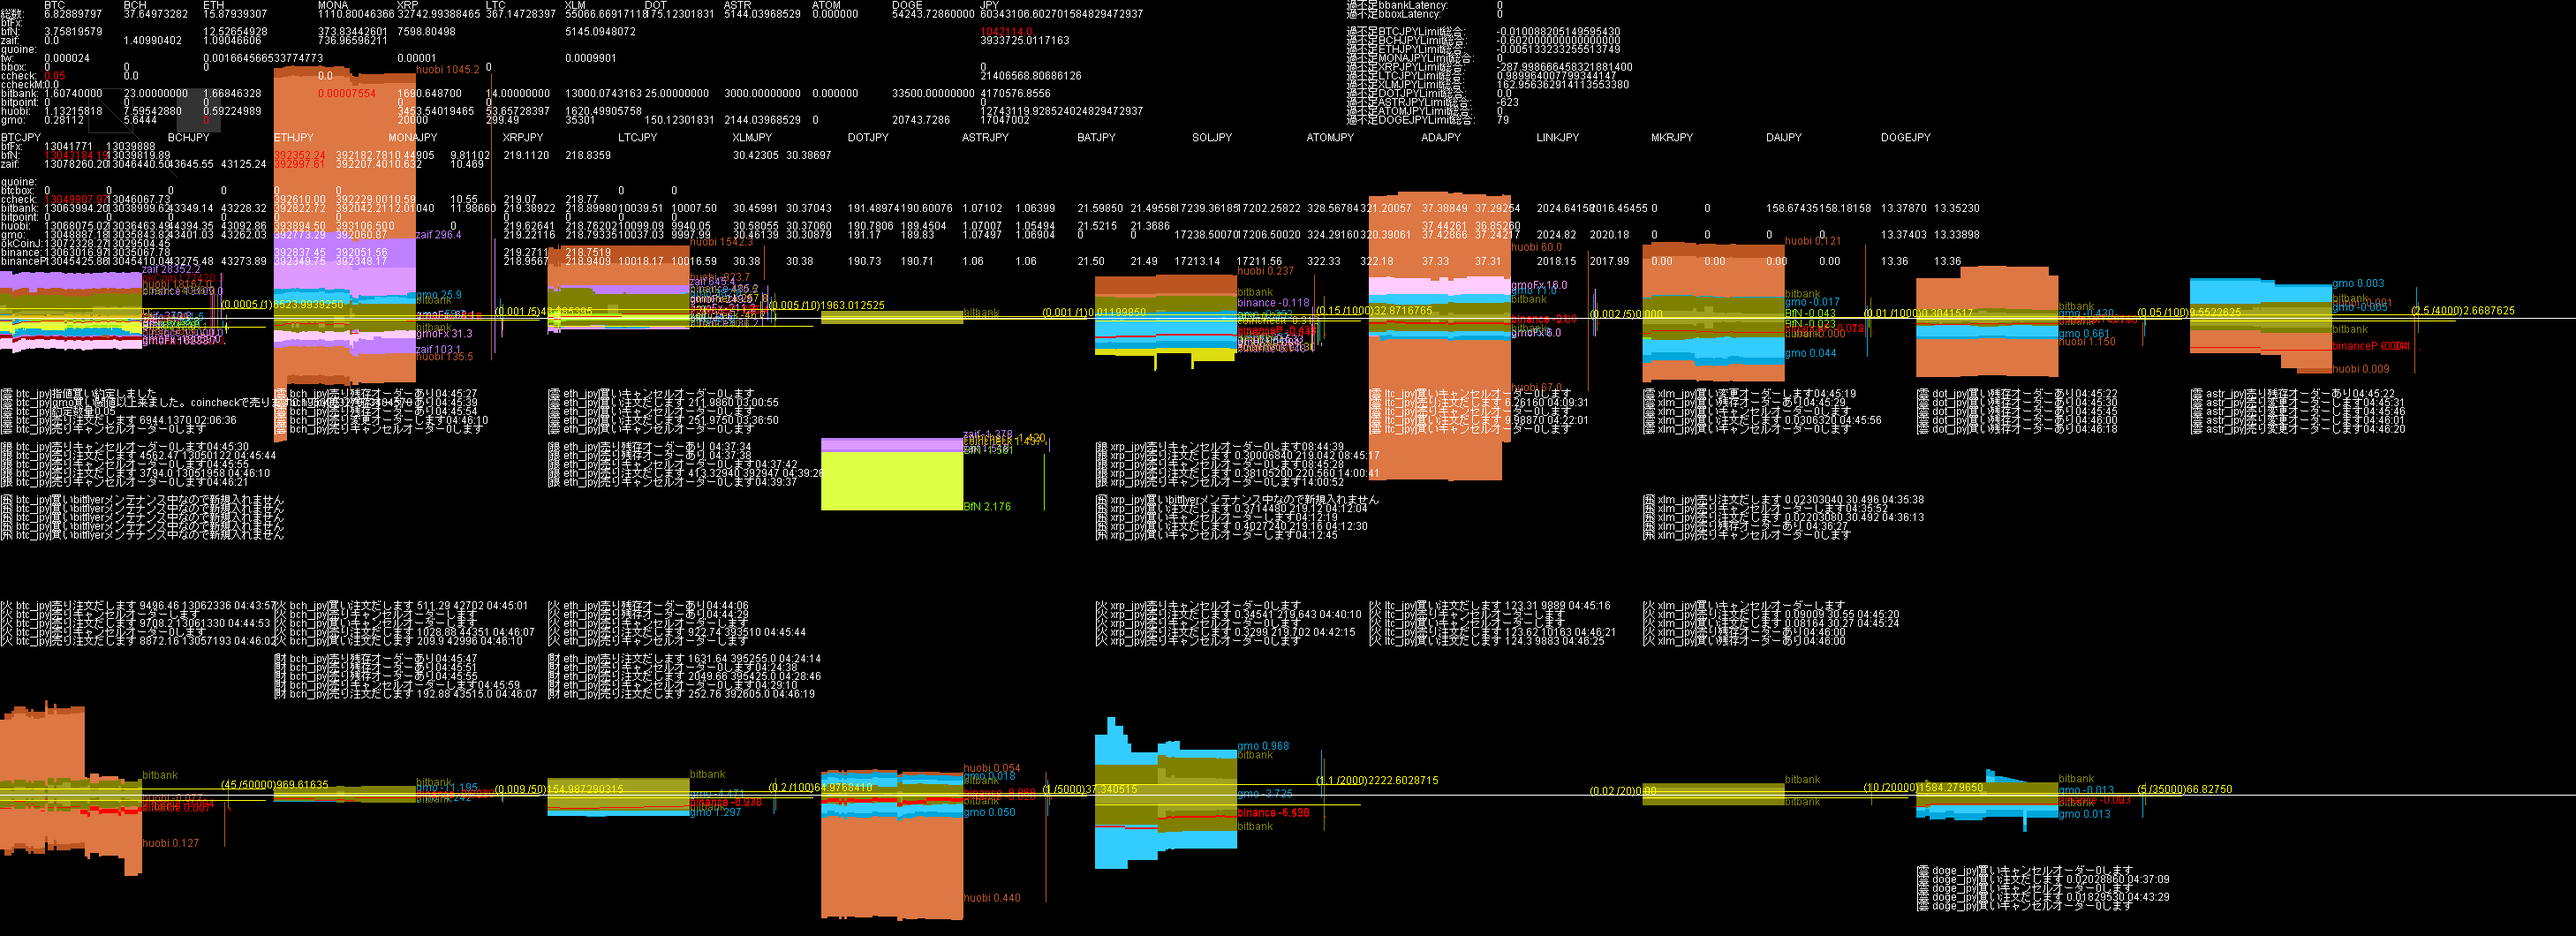
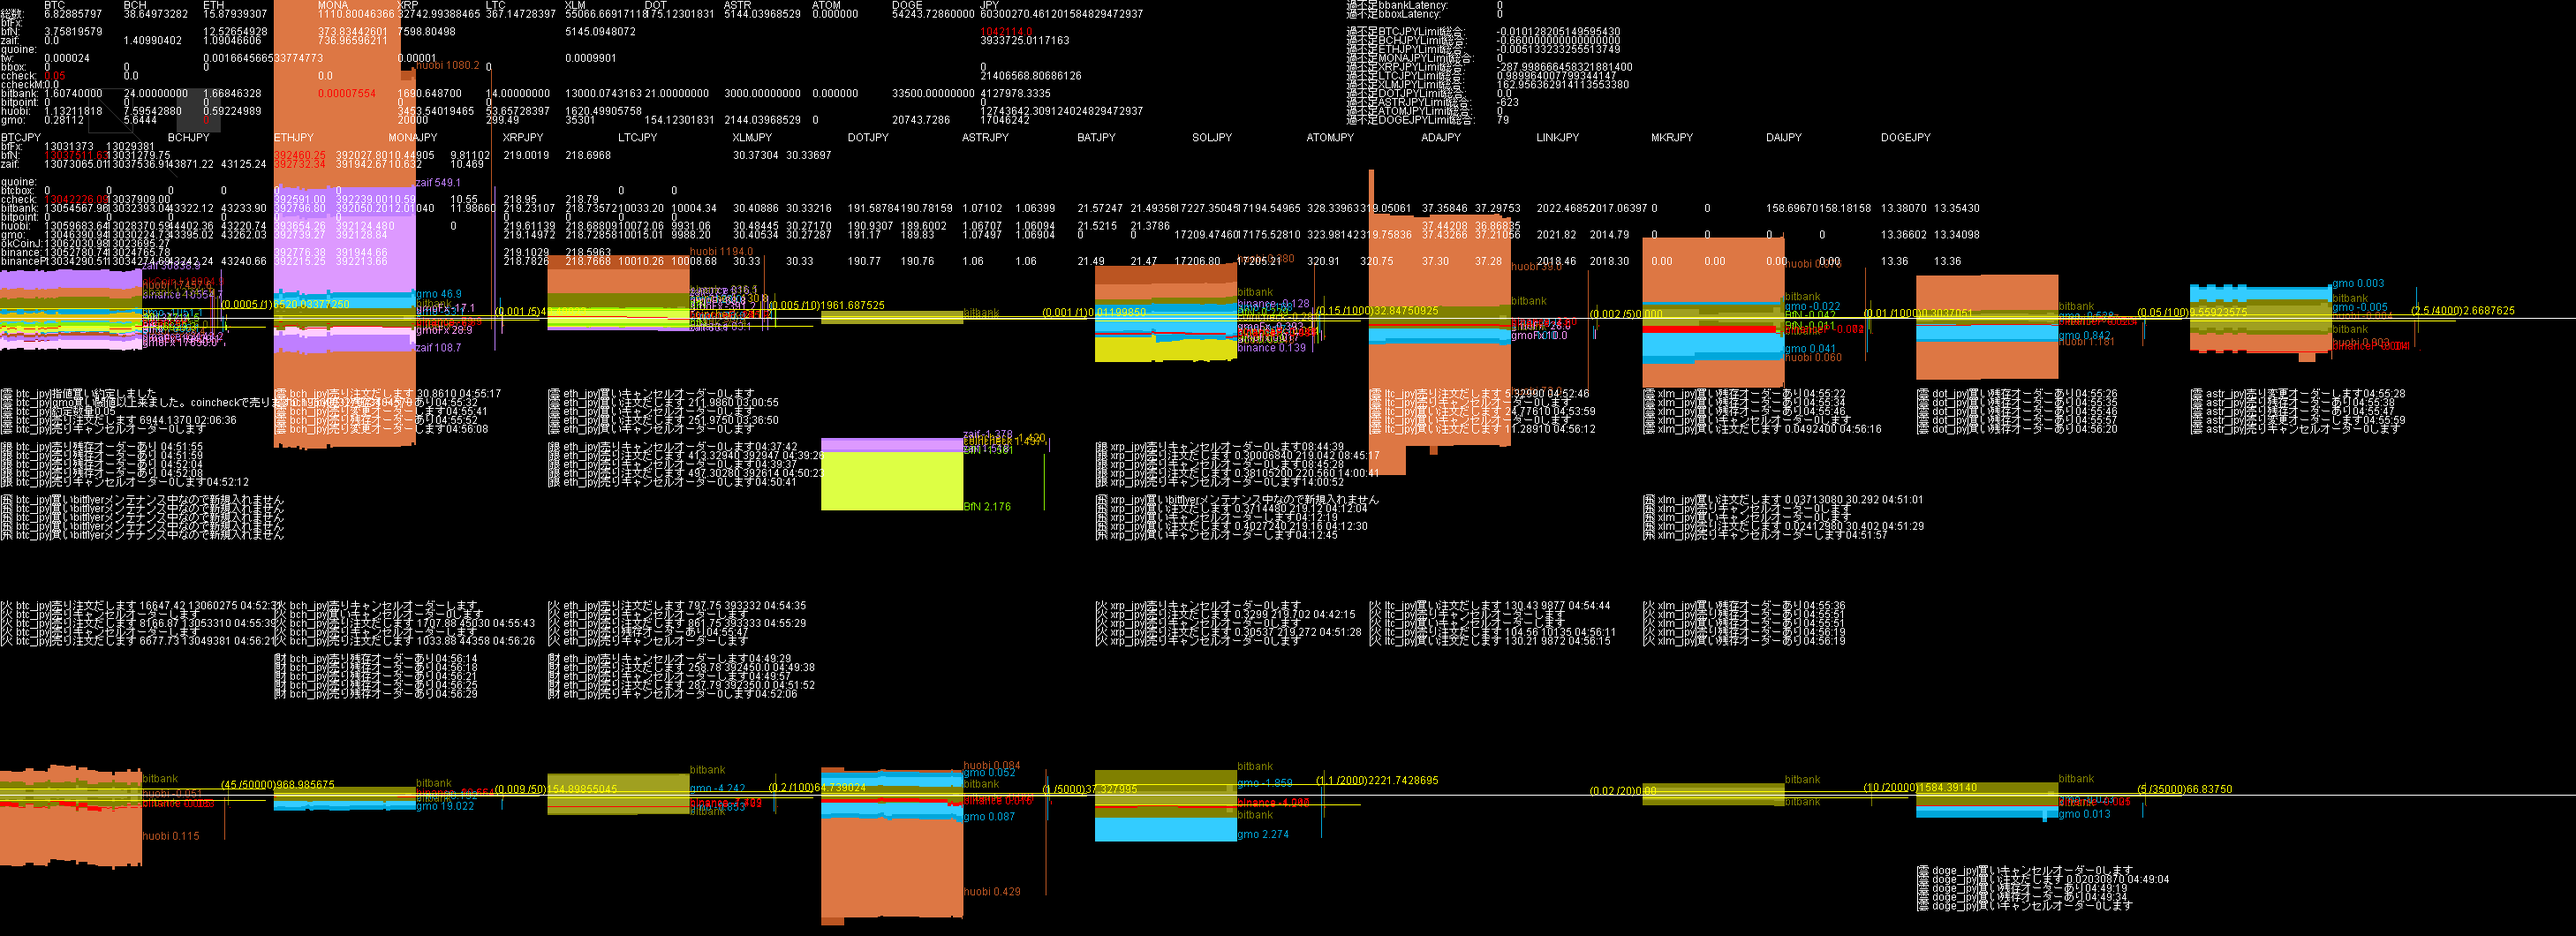
Update HTML file via Java

diff --git a/ca.html b/ca.html
@@ -16,6 +16,9 @@ th { background-color: #222; text-align: center; }
     <tr><th>ddhhmm</th><th>bfJPY</th><th>財JPY</th><th>ccJPY</th><th>銀JPY</th><th>火JPY</th><th>雲JPY</th><th>bfBTC</th><th>財BTC</th><th>ccBTC</th><th>銀BTC</th><th>火BTC</th><th>雲BTC</th><th>bfBCH</th><th>財BCH</th><th>ccBCH</th><th>銀BCH</th><th>火BCH</th><th>雲BCH</th><th>bfETH</th><th>財ETH</th><th>ccETH</th><th>銀ETH</th><th>火ETH</th><th>雲ETH</th><th>bfMONA</th><th>財MONA</th><th>ccMONA</th><th>銀MONA</th><th>火MONA</th><th>雲MONA</th><th>bfXRP</th><th>財XRP</th><th>ccXRP</th><th>銀XRP</th><th>火XRP</th><th>雲XRP</th><th>bfLTC</th><th>財LTC</th><th>ccLTC</th><th>銀LTC</th><th>火LTC</th><th>雲LTC</th><th>bfXLM</th><th>財XLM</th><th>ccXLM</th><th>銀XLM</th><th>火XLM</th><th>雲XLM</th><th>bfDOT</th><th>財DOT</th><th>ccDOT</th><th>銀DOT</th><th>火DOT</th><th>雲DOT</th><th>bfASTR</th><th>財ASTR</th><th>ccASTR</th><th>銀ASTR</th><th>火ASTR</th><th>雲ASTR</th><th>bfDOGE</th><th>財DOGE</th><th>ccDOGE</th><th>銀DOGE</th><th>火DOGE</th><th>雲DOGE</th>    </tr>  </thead>
   <tbody>
     <tr>
+<td>100456</td><td><span style="color: #ff69b4">00104</span></td><td>00393</td><td>02140</td><td>00412</td><td>01274</td><td>01704</td><td>03.76</td><td>00.00</td><td>00.05</td><td>01.61</td><td>01.13</td><td>00.28</td><td>00.00</td><td>01.41</td><td>00.00</td><td>24.00</td><td>07.60</td><td>05.64</td><td>12.53</td><td>01.09</td><td>00.00</td><td>01.67</td><td>00.59</td><td><span style="color: #ff69b4">00.00</span></td><td>0373.8</td><td>0737.0</td><td>0000.0</td><td><span style="color: #ff69b4">0000.0</span></td><td>0000.0</td><td>0000.0</td><td>07599</td><td>00000</td><td>00000</td><td>01691</td><td>03454</td><td>20000</td><td>00.00</td><td>00.00</td><td>00.00</td><td>14.00</td><td>53.66</td><td>299.49</td><td>00.00</td><td>00.00</td><td>00.00</td><td>13000.07</td><td>1620.50</td><td>35301.00</td><td>00.00</td><td>00.00</td><td>00.00</td><td>21.00</td><td>00.00</td><td>154.12</td><td>00.00</td><td>00.00</td><td>00.00</td><td>3000.00</td><td>00.00</td><td>2144.04</td><td>00.00</td><td>00.00</td><td>00.00</td><td>33500.00</td><td>00.00</td><td>20743.73</td>
+    </tr>
+    <tr>
 <td>100446</td><td><span style="color: #ff69b4">00104</span></td><td>00393</td><td>02140</td><td>00417</td><td>01274</td><td>01704</td><td>03.76</td><td>00.00</td><td>00.05</td><td>01.61</td><td>01.13</td><td>00.28</td><td>00.00</td><td>01.41</td><td>00.00</td><td>23.00</td><td>07.60</td><td>05.64</td><td>12.53</td><td>01.09</td><td>00.00</td><td>01.67</td><td>00.59</td><td><span style="color: #ff69b4">00.00</span></td><td>0373.8</td><td>0737.0</td><td>0000.0</td><td><span style="color: #ff69b4">0000.0</span></td><td>0000.0</td><td>0000.0</td><td>07599</td><td>00000</td><td>00000</td><td>01691</td><td>03454</td><td>20000</td><td>00.00</td><td>00.00</td><td>00.00</td><td>14.00</td><td>53.66</td><td>299.49</td><td>00.00</td><td>00.00</td><td>00.00</td><td>13000.07</td><td>1620.50</td><td>35301.00</td><td>00.00</td><td>00.00</td><td>00.00</td><td>25.00</td><td>00.00</td><td>150.12</td><td>00.00</td><td>00.00</td><td>00.00</td><td>3000.00</td><td>00.00</td><td>2144.04</td><td>00.00</td><td>00.00</td><td>00.00</td><td>33500.00</td><td>00.00</td><td>20743.73</td>
     </tr>
     <tr>
